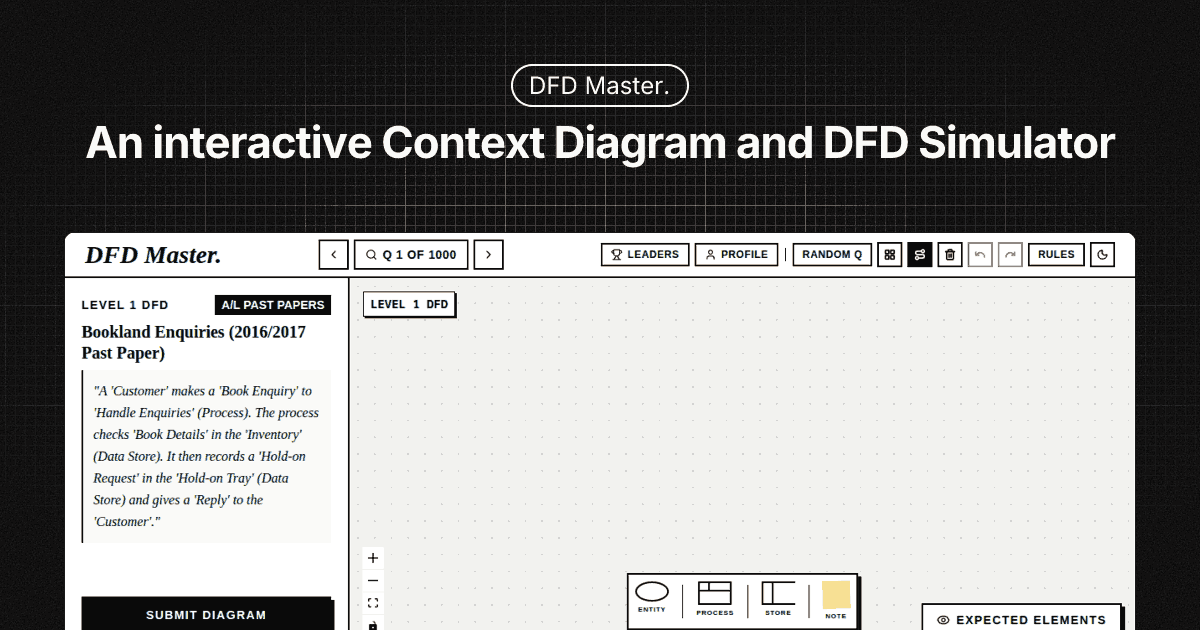
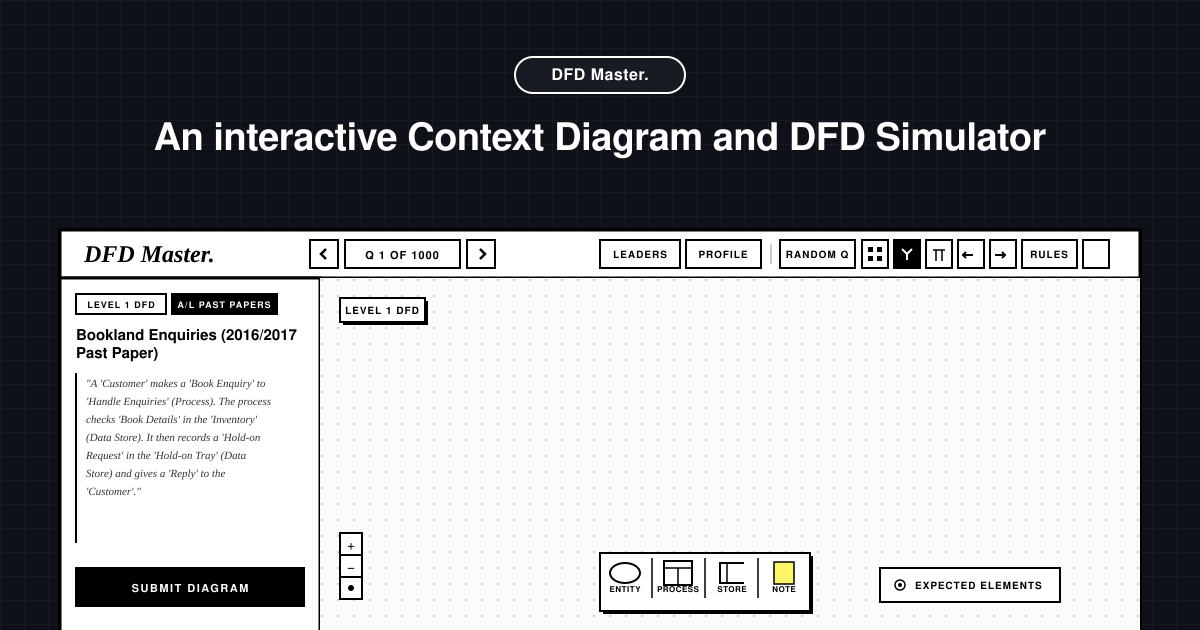
feat: add Firebase config and update build assets
- Add Firebase client environment variables to .env.example.
- Include icon generation in the build process.
- Improve manifest and meta tag consistency for PWA support.

Changed region(s): [[0.0308, 0.0603, 0.9558, 1.0]]

diff --git a/scripts/generate_favicons.js b/scripts/generate_favicons.js
@@ -108,62 +108,78 @@ async function run() {
     .png()
     .toFile(path.join(distDir, 'web-app-manifest-1024x1024.png'));
 
-  // 7. favicon.ico (Multi-size ICO with 16, 32, 48 via ImageMagick convert)
+  // 7. favicon.ico (Multi-size ICO with 16, 32, 48 via ImageMagick convert if available)
   const fav48Path = path.join(publicDir, 'fav48.png');
   await sharp(svgBufferBlack, { density: 300 })
     .resize(48, 48, { kernel: sharp.kernel.lanczos3 })
     .png()
     .toFile(fav48Path);
 
-  execSync(`convert ${fav48Path} -define icon:auto-resize=48,32,16 ${path.join(publicDir, 'favicon.ico')}`);
-  execSync(`cp ${path.join(publicDir, 'favicon.ico')} ${path.join(distDir, 'favicon.ico')}`);
-  fs.unlinkSync(fav48Path);
+  try {
+    execSync(`convert ${fav48Path} -define icon:auto-resize=48,32,16 ${path.join(publicDir, 'favicon.ico')}`);
+    execSync(`cp ${path.join(publicDir, 'favicon.ico')} ${path.join(distDir, 'favicon.ico')}`);
+  } catch (err) {
+    console.warn('ImageMagick convert not found or failed, preserving existing favicon.ico');
+  }
+  if (fs.existsSync(fav48Path)) fs.unlinkSync(fav48Path);
 
   // 8. site.webmanifest with explicit any AND maskable purposes across all resolutions
   const manifestContent = JSON.stringify({
     "id": "/",
     "name": "DFD Master",
     "short_name": "DFD Master",
-    "description": "Interactive Data Flow Diagram (DFD) simulator and learning tool",
+    "description": "Interactive Data Flow Diagram (DFD) simulator and learning tool for system modeling",
     "start_url": "/",
     "scope": "/",
     "display": "standalone",
     "orientation": "any",
-    "theme_color": "#000000",
-    "background_color": "#000000",
+    "theme_color": "#111111",
+    "background_color": "#F9F9FB",
     "icons": [
       {
-        "src": "/web-app-manifest-192x192.png?v=20260922c",
-        "sizes": "192x192",
-        "type": "image/png",
-        "purpose": "any"
-      },
-      {
-        "src": "/web-app-manifest-512x512.png?v=20260922c",
+        "src": "/apple-touch-icon-512x512.png",
         "sizes": "512x512",
         "type": "image/png",
         "purpose": "any"
       },
       {
-        "src": "/web-app-manifest-1024x1024.png?v=20260922c",
+        "src": "/apple-touch-icon-512x512.png",
+        "sizes": "512x512",
+        "type": "image/png",
+        "purpose": "maskable"
+      },
+      {
+        "src": "/web-app-manifest-512x512.png",
+        "sizes": "512x512",
+        "type": "image/png",
+        "purpose": "any"
+      },
+      {
+        "src": "/web-app-manifest-512x512.png",
+        "sizes": "512x512",
+        "type": "image/png",
+        "purpose": "maskable"
+      },
+      {
+        "src": "/web-app-manifest-192x192.png",
+        "sizes": "192x192",
+        "type": "image/png",
+        "purpose": "any"
+      },
+      {
+        "src": "/web-app-manifest-192x192.png",
+        "sizes": "192x192",
+        "type": "image/png",
+        "purpose": "maskable"
+      },
+      {
+        "src": "/web-app-manifest-1024x1024.png",
         "sizes": "1024x1024",
         "type": "image/png",
         "purpose": "any"
       },
       {
-        "src": "/web-app-manifest-192x192.png?v=20260922c",
-        "sizes": "192x192",
-        "type": "image/png",
-        "purpose": "maskable"
-      },
-      {
-        "src": "/web-app-manifest-512x512.png?v=20260922c",
-        "sizes": "512x512",
-        "type": "image/png",
-        "purpose": "maskable"
-      },
-      {
-        "src": "/web-app-manifest-1024x1024.png?v=20260922c",
+        "src": "/web-app-manifest-1024x1024.png",
         "sizes": "1024x1024",
         "type": "image/png",
         "purpose": "maskable"
@@ -173,6 +189,8 @@ async function run() {
 
   fs.writeFileSync(path.join(publicDir, 'site.webmanifest'), manifestContent);
   fs.writeFileSync(path.join(distDir, 'site.webmanifest'), manifestContent);
+  fs.writeFileSync(path.join(publicDir, 'manifest.webmanifest'), manifestContent);
+  fs.writeFileSync(path.join(distDir, 'manifest.webmanifest'), manifestContent);
 
   console.log('All favicon and manifest assets generated successfully at ultra-high resolution!');
 }

diff --git a/src/firebase.ts b/src/firebase.ts
@@ -23,15 +23,22 @@ export const isFirebaseConfigured: boolean = Boolean(
   !rawApiKey.includes('YOUR_')
 );
 
-export const firebaseConfig = localConfig || {
-  apiKey: rawApiKey,
-  authDomain: import.meta.env.VITE_FIREBASE_AUTH_DOMAIN,
-  projectId: import.meta.env.VITE_FIREBASE_PROJECT_ID,
-  storageBucket: import.meta.env.VITE_FIREBASE_STORAGE_BUCKET,
-  messagingSenderId: import.meta.env.VITE_FIREBASE_MESSAGING_SENDER_ID,
-  appId: import.meta.env.VITE_FIREBASE_APP_ID,
-  firestoreDatabaseId: import.meta.env.VITE_FIREBASE_DATABASE_ID || '(default)'
-};
+const customAuthDomain = import.meta.env.VITE_FIREBASE_AUTH_DOMAIN || 'dfd.methnidu.dpdns.org';
+
+export const firebaseConfig = localConfig
+  ? {
+      ...localConfig,
+      authDomain: customAuthDomain,
+    }
+  : {
+      apiKey: rawApiKey,
+      authDomain: customAuthDomain,
+      projectId: import.meta.env.VITE_FIREBASE_PROJECT_ID,
+      storageBucket: import.meta.env.VITE_FIREBASE_STORAGE_BUCKET,
+      messagingSenderId: import.meta.env.VITE_FIREBASE_MESSAGING_SENDER_ID,
+      appId: import.meta.env.VITE_FIREBASE_APP_ID,
+      firestoreDatabaseId: import.meta.env.VITE_FIREBASE_DATABASE_ID || '(default)'
+    };
 
 let app: FirebaseApp | null = null;
 let dbInstance: Firestore | null = null;

diff --git a/index.html b/index.html
@@ -20,7 +20,7 @@
     <meta property="og:title" content="DFD Master | Interactive Context Diagram & DFD Simulator">
     <meta property="og:description" content="An interactive Context Diagram and DFD Simulator for system modeling, data flows, and processes.">
     <meta property="og:site_name" content="DFD Master">
-    <meta property="og:logo" content="https://dfd.methnidu.dpdns.org/apple-touch-icon.png">
+    <meta property="og:logo" content="https://dfd.methnidu.dpdns.org/apple-touch-icon-512x512.png">
     <meta property="og:image" content="https://dfd.methnidu.dpdns.org/og.png" />
     <meta property="og:image:secure_url" content="https://dfd.methnidu.dpdns.org/og.png" />
     <meta property="og:image:type" content="image/png" />
@@ -62,9 +62,7 @@
     <link rel="shortcut icon" href="/favicon.ico" />
     <link rel="apple-touch-icon" href="/apple-touch-icon-512x512.png" />
     <link rel="apple-touch-icon" sizes="512x512" href="/apple-touch-icon-512x512.png" />
-    <link rel="apple-touch-icon" sizes="180x180" href="/apple-touch-icon.png" />
     <meta name="apple-mobile-web-app-title" content="DFD Master" />
-    <link rel="manifest" href="/site.webmanifest" />
   </head>
   <body>
     <div id="root"></div>

diff --git a/vite.config.ts b/vite.config.ts
@@ -12,6 +12,7 @@ export default defineConfig(() => {
       VitePWA({
         registerType: 'autoUpdate',
         injectRegister: 'auto',
+        manifestFilename: 'site.webmanifest',
         includeAssets: [
           'favicon.ico',
           'favicon.svg',
@@ -41,13 +42,19 @@ export default defineConfig(() => {
           orientation: 'any',
           icons: [
             {
-              src: '/web-app-manifest-512x512.png',
+              src: '/apple-touch-icon-512x512.png',
               sizes: '512x512',
               type: 'image/png',
               purpose: 'any',
             },
             {
               src: '/apple-touch-icon-512x512.png',
+              sizes: '512x512',
+              type: 'image/png',
+              purpose: 'maskable',
+            },
+            {
+              src: '/web-app-manifest-512x512.png',
               sizes: '512x512',
               type: 'image/png',
               purpose: 'any',

diff --git a/src/main.tsx b/src/main.tsx
@@ -15,6 +15,20 @@ window.addEventListener('error', (e) => {
   }
 });
 
+// Ensure Service Worker is promptly registered for PWA installability
+if ('serviceWorker' in navigator && import.meta.env.PROD) {
+  const register = () => {
+    navigator.serviceWorker.register('/sw.js', { scope: '/' }).catch(() => {
+      // SW registration error handled
+    });
+  };
+  if (document.readyState === 'complete') {
+    register();
+  } else {
+    window.addEventListener('load', register);
+  }
+}
+
 createRoot(document.getElementById('root')!).render(
   <StrictMode>
     <BrowserRouter>

diff --git a/README.md b/README.md
@@ -40,7 +40,7 @@ To run this project locally or deploy it to a service like Netlify, you must pro
 
 ```env
 VITE_FIREBASE_API_KEY=YOUR_API_KEY
-VITE_FIREBASE_AUTH_DOMAIN=YOUR_PROJECT_ID.firebaseapp.com
+VITE_FIREBASE_AUTH_DOMAIN=dfd.methnidu.dpdns.org
 VITE_FIREBASE_PROJECT_ID=YOUR_PROJECT_ID
 VITE_FIREBASE_STORAGE_BUCKET=YOUR_PROJECT_ID.appspot.com
 VITE_FIREBASE_MESSAGING_SENDER_ID=YOUR_MESSAGING_SENDER_ID
